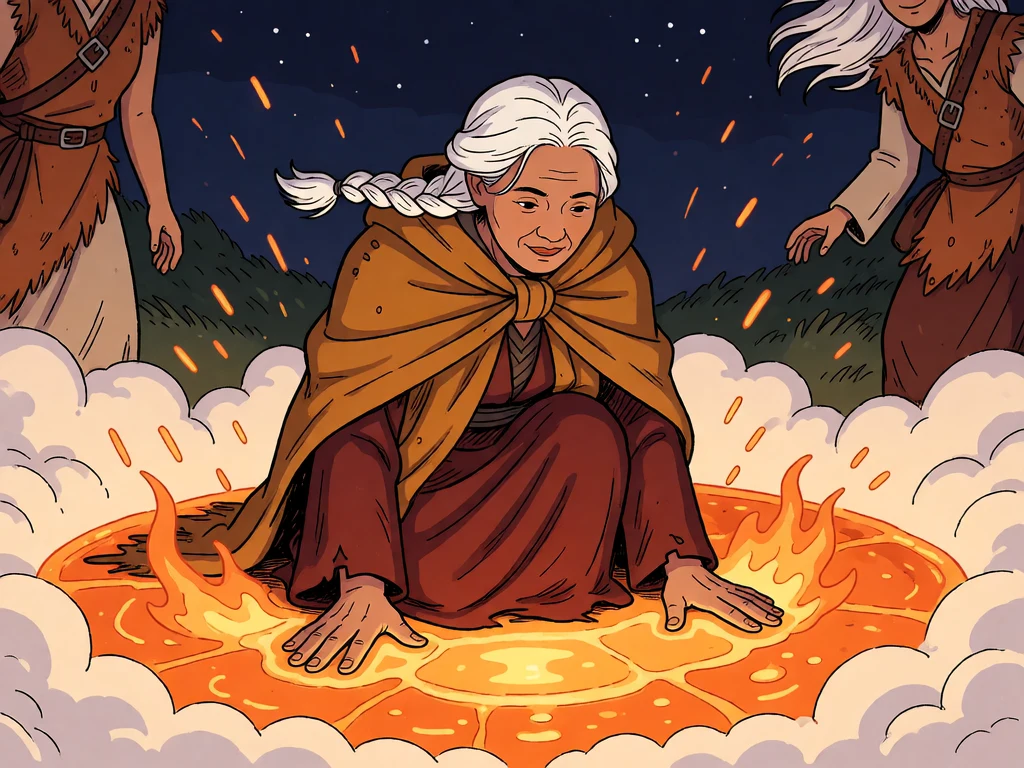
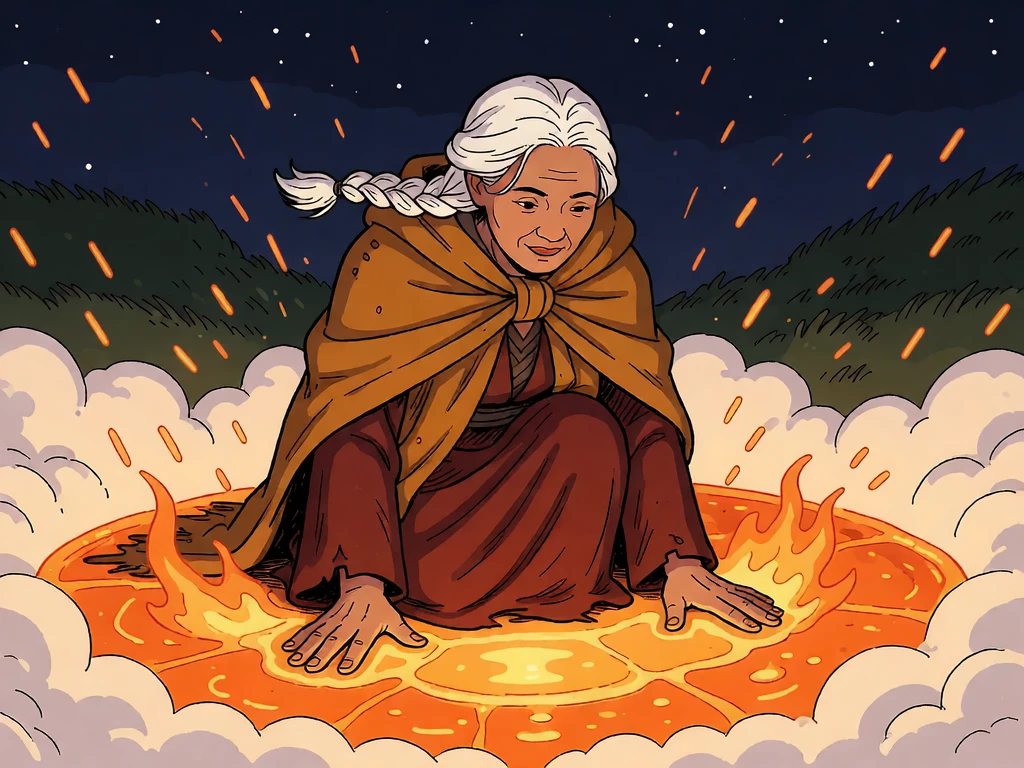
Run 7's crowd: Maudie, Orrin and Mabry in their own models, tinted villager stand-ins for Jarek, Hania, Manu, Sina, Garrick and Marit; Hesta alone in the landing still
Claude-Session: https://claude.ai/code/session_01JTmPYBGE5RJi7qTbK5Qior

diff --git a/src/client/view3d.ts b/src/client/view3d.ts
@@ -20,7 +20,7 @@ import { DYING, crowdSpot, terraceHeight } from "../engine/dying.js";
 import { DRESS, dressVerge, quarryPit, sieveGrain, sieveMask, sievePaths, wellLoop } from "./sieve-dress.js";
 import { SIEVE } from "../engine/sieve.js";
 import { RESCUE_LOOK, RescueFx, type VillagerRig } from "./rescue-dress.js";
-import { VILLAGERS, VILLAGER_BASES, tintVillager, type Villager } from "./villagers.js";
+import { VILLAGERS, VILLAGER_BASES, tintVillager, type Villager, type VillagerBase } from "./villagers.js";
 import { RematchFx } from "./rematch-dress.js";
 import { CoveFx } from "./cove-dress.js";
 import { KiteFx } from "./kite-dress.js";
@@ -1332,6 +1332,31 @@ class CastAnim {
     this.last = nowSec;
     this.mixer.update(dt);
   }
+}
+
+/** One of the village in run 9's villager base, at its height, lit and tinted as there, with its idle and walk. */
+function standBody(s: { base: string; skin: string; outfit: string; tall?: number }): THREE.Object3D | null {
+  loadVillagers();
+  const model = models[s.base], anims = clips[s.base];
+  if (!model || !anims?.length) return null;
+  const body = cloneSkinned(model);
+  body.scale.multiplyScalar(VILLAGERS.man * (VILLAGERS.heights[s.base as VillagerBase] ?? 1) * (s.tall ?? 1));
+  body.traverse((o) => {
+    const m = o as THREE.Mesh;
+    if (!m.isMesh) return;
+    if ((m as THREE.SkinnedMesh).isSkinnedMesh) m.frustumCulled = false;
+    const c = (m.material as THREE.MeshStandardMaterial).clone();
+    if (c.map) {
+      c.emissiveMap = c.map;
+      c.emissive = new THREE.Color("#ffffff");
+      c.emissiveIntensity = VILLAGERS.flat;
+    }
+    m.material = c;
+  });
+  // Last: a later clone would drop the colours.
+  tintVillager(body, s.skin, s.outfit);
+  body.userData.anim = new CastAnim(body, anims);
+  return body;
 }
 
 function castBody(cast: string): THREE.Object3D | null {
@@ -3238,12 +3263,16 @@ export class World {
     const m = DYING.crowd[i]!;
     const cast = m.cast && models[m.cast] ? castBody(m.cast) : null;
     if (cast) return { body: cast, real: true };
+    // A stand-in: run 9's villager base, tinted to them.
+    const stand = m.stand ? standBody(m.stand) : null;
+    if (stand) return { body: stand, real: true };
     // No model of their own yet: the plain lamplighter figure, a little different in height from the next.
     const plain = models[i % 2 ? "dawn" : "dusk"];
     if (plain) {
       const body = plain.clone();
       body.scale.multiplyScalar(1.8 * (0.88 + (i % 3) * 0.06));
-      return { body, real: !m.cast };
+      // Final for those with no model coming; the cast and the stand-ins replace it when theirs is in.
+      return { body, real: !m.cast && !m.stand };
     }
     const body = new THREE.Group();
     const robe = new THREE.Mesh(new THREE.ConeGeometry(0.3, 1.2, 10), new THREE.MeshStandardMaterial({ color: "#4a4660", roughness: 0.8 }));

diff --git a/src/engine/dying.ts b/src/engine/dying.ts
@@ -199,19 +199,21 @@ export const DYING = {
    */
   crowd: [
     { who: "Lumi", a: 0.555, c: "#ffd36a", s: 1.5, cast: "lumi" },
-    { who: "Maudie", a: 0.525, c: "#f4a6c8", s: 0.9 },
+    { who: "Maudie", a: 0.525, c: "#f4a6c8", s: 0.9, cast: "maudie" },
     { who: "Wick", a: 0.47, c: "#9fd8ff", s: 0.9, cast: "wick" },
     { who: "Moth", a: 0.425, c: "#c8b0ff", s: 0.9, cast: "moth" },
-    { who: "Jarek", a: 0.37, c: "#ffc890", s: 0.8 },
+    { who: "Jarek", a: 0.37, c: "#ffc890", s: 0.8, stand: { base: "villager-man", skin: "#e2b494", outfit: "#5c6e80" } },
     { who: "Nell", a: 0.32, c: "#a8e6a0", s: 0.7, cast: "nell" },
-    { who: "Orrin", a: 0.265, c: "#8fd0c8", s: 0.8 },
-    { who: "Mabry", a: 0.21, c: "#ffe9b0", s: 0.8 },
-    { who: "Manu", a: 0.15, c: "#b8e0ff", s: 0.8, carries: "sefa" },
-    { who: "Sina", a: 0.115, c: "#ffd0a0", s: 0.75 },
-    { who: "Hania", a: 0.05, c: "#f0d0ff", s: 0.75 },
-    { who: "Garrick", a: 0.99, c: "#d8c8a0", s: 0.8 },
-    { who: "Marit", a: 0.94, c: "#c0e8c0", s: 0.8 },
-  ] as readonly { who: string; a: number; c: string; s: number; cast?: string; carries?: string }[],
+    { who: "Orrin", a: 0.265, c: "#8fd0c8", s: 0.8, cast: "orrin" },
+    { who: "Mabry", a: 0.21, c: "#ffe9b0", s: 0.8, cast: "mabry" },
+    { who: "Manu", a: 0.15, c: "#b8e0ff", s: 0.8, carries: "sefa", stand: { base: "villager-man", skin: "#8d5a3c", outfit: "#4e807c", tall: 1.08 } },
+    { who: "Sina", a: 0.115, c: "#ffd0a0", s: 0.75, stand: { base: "villager-woman", skin: "#8d5a3c", outfit: "#4a4e78" } },
+    { who: "Hania", a: 0.05, c: "#f0d0ff", s: 0.75, stand: { base: "villager-woman", skin: "#e2b494", outfit: "#d6ccb0" } },
+    { who: "Garrick", a: 0.99, c: "#d8c8a0", s: 0.8, stand: { base: "villager-elder-man", skin: "#5c3a28", outfit: "#464a5c" } },
+    { who: "Marit", a: 0.94, c: "#c0e8c0", s: 0.8, stand: { base: "villager-woman", skin: "#a8714e", outfit: "#c4b696" } },
+    // `stand`: no model of their own yet (the cast thread is asked, 25 Nov), so run 9's villager base
+    // in their sheet's skin and main garment colour.
+  ] as readonly { who: string; a: number; c: string; s: number; cast?: string; carries?: string; stand?: { base: string; skin: string; outfit: string; tall?: number } }[],
   /**
    * Where they stand (Ladi, 24 Nov: "I definitely do not want the crowd on the field... they are by
    * Hesta's house looking down at the Kindling field"). Never on the field: all through both runs

diff --git a/CREDITS.md b/CREDITS.md
@@ -15,11 +15,12 @@ subscription-only billing so no Spark was spent. Sources are in the project file
 | faces/&lt;who&gt;-&lt;mood&gt;.webp (story portraits: Hesta 3 moods, Lumi 6, Rook 4, Nell 6, Sefa 7, Kes 5; Kes's are drafts from the cast art thread, `sogni/lanternfall/production/kes/game/`, 2026-11-24) | Mood faces (Lumi's calling, grudging and delighted redrawn closed-mouth on 2026-11-23) from the cast art thread (project files `sogni/lanternfall/production/<who>/face-*.png`, 2026-11-23), resized to 160 px WebP |
 | stills/r8-{1,2,7,10,11a,11b}.webp (run 8's reaction stills: Tilda steady, Tilda and Rook at the far well, Rook asking for Granny (redrawn the same day, more concerned, at Ladi's word), the count book, Tilda asking, Rook with no answer) | Drafts drawn by the gameplay thread with krea2_identity_edit_v1_2 on Sogni, 2026-11-24, on Ladi's plan, 0 Spark (project files `gameplay/stills/run8/`), 1024 by 768 as delivered. | The stills panel over the Sieve (`src/engine/stills.ts`) |
 | stills/r8-5.webp, stills/r8-6.webp (run 8's reaction stills at the tug: Tilda lost with Rook uneasy behind her; Tilda watching, Rook looking down) | Drawn by the cutscene thread on Sogni, 2026-11-24, on Ladi's plan; Ladi approved them at 10:44 AM ("Faces look good"). Every step with krea2_identity_edit_v1_2 on the subscription, 0 Spark, as that thread confirmed from its render logs (Tilda alone, Rook added behind her, the face changes on head crops), from the project's own persona sheets lf-tilda and lf-rook-high-grounds; the face transplants, Tilda's chalk smudge and Rook's enlarging are its own script and hand work, no model (sources `sogni/lanternfall/production/story/run8-stills/s5-closer.png` and `s6-closer.png`; delivered in project files `gameplay/stills/run8/`), 1024 by 768 as delivered | The stills panel over the Sieve: 5 as the tug takes hold, 6 cross-fading over it when the tug ends |
-| stills/r6-land-{1,2,3}.webp (run 6's landing pictures: the crowd looking up with Lumi in front, the comet over the island, Hesta landing in the glass) | Drafts drawn by the gameplay thread on Sogni, 2026-11-24, on Ladi's plan, 0 Spark, all with krea2_identity_edit_v1_2; picture 2 redrawn the same day from the game's own island (project files `gameplay/stills/run6/`), 1024 by 768 as delivered | The held pictures of the landing between runs 6 and 7; picture 2 shows only with `?stillsonly`, since the comet now falls on the map |
+| stills/r6-land-{1,2,3}.webp (run 6's landing pictures: the crowd looking up with Lumi in front, the comet over the island, Hesta landing in the glass) | Drafts drawn by the gameplay thread on Sogni, 2026-11-24, on Ladi's plan, 0 Spark, all with krea2_identity_edit_v1_2; picture 2 redrawn the same day from the game's own island; picture 3 redrawn on 2026-11-25 by the cutscene thread with Hesta alone (`r6-land-3-solo`, the two people at its edges painted out, 0 Spark, on Ladi's note) (project files `gameplay/stills/run6/`), 1024 by 768 as delivered | The held pictures of the landing between runs 6 and 7; picture 2 shows only with `?stillsonly`, since the comet now falls on the map |
 | stills/alarm/**/*.webp (the alarm before run 6 as moving layers: the kitchen with its lamp and three cups apart; the falls; the Kindling ground close with its fire strong, low, in embers and out, drawn from the game's own story/kindling-ring.webp; and in shot4/ the island going down: sky, five layers of cloud, the island cut out with its heart bright and dim, a strip of waterfall, four rocks), stills/r6-alarm-5.webp (Lumi at the door, worried) and stills/r7-end-1.webp (the island clear of the cloud) | Drafts drawn by the gameplay thread on Sogni, 2026-11-24, on Ladi's plan, 0 Spark, with krea2_identity_edit_v1_2, the island drawn from the game's own (project files `gameplay/stills/run6/` and `gameplay/stills/run6/alarm-layers/`); the layers turned from PNG to WebP here, same sizes | The alarm's five shots before run 6 (`?noalarm` leaves them out) and the picture at the end of run 7. The alarm's sparks are drawn in the page, and its sounds (bell, timbers, falls, far-off voices, the low roll, rock breaking) are made in the page, no files |
 | stills/alarm/shot4/{island-dim,island-bright,waterfall-strip,debris-1..4}.webp (the alarm's last shot, redrawn so the houses, the landing with its skiff and the lake sit where they are on the map, with the falls down the near face) | Redrawn by the gameplay thread on Sogni, 2026-11-24, straight over a capture of the game's own home island made here (project files `build/home-island-horseshoe/whole/2-day-side.png`); Ladi approved the shot at 11:30 AM ("Shot 4 Descent looks good", draft 5). Model and cost as that thread's other alarm layers (the row above); turned from PNG to WebP here, same sizes; on 2026-11-25 the cutscene thread painted the five small figures out of island-dim and island-bright at Ladi's request (the shot is too wide for people), same size and alpha (`production/story/run6-stills/layers4/nopeople/`) | The island going down, the last shot of the alarm before run 6 |
 | models/rook.glb, lumi.glb, hesta.glb, wick.glb, moth.glb, nell.glb, sefa.glb (story characters) | The cast art thread's rigged and animated models (`production/<who>/<who>-rigged.glb`, 2026-11-23: idle, walk, run, pull, push clips), shipped as delivered (quantised, no meshopt): 570 to 815 KB each |
-| models/maudie.glb, mabry.glb, orrin.glb (home island residents) | The cast art thread's rigged and animated models (`production/<who>/<who>-rigged.glb`, 2026-11-25: idle, walk, run, pull, push; Mabry's cane skinned to her right hand), shipped as delivered, 646 to 737 KB each. Ladi approved the three field drawings ("Looks good to me", 2026-11-25, 4:21 AM); the rigged models are not seen by him yet. Same Sogni pipeline and caveats as the row above | The walks: Maudie at Rook's door, Orrin at his stall, Mabry at the shrine |
+| models/maudie.glb, mabry.glb, orrin.glb (home island residents) | The cast art thread's rigged and animated models (`production/<who>/<who>-rigged.glb`, 2026-11-25: idle, walk, run, pull, push; Mabry's cane skinned to her right hand), shipped as delivered, 646 to 737 KB each. Ladi approved the three field drawings ("Looks good to me", 2026-11-25, 4:21 AM); the rigged models are not seen by him yet. Same Sogni pipeline and caveats as the row above | The walks: Maudie at Rook's door, Orrin at his stall, Mabry at the shrine; and in run 7's crowd on Hesta's terrace |
+| models/villager-{man,woman,girl,boy,elder-woman,elder-man}.glb (six tintable villager bases) | The cast art thread's rigged and animated models, draft 1 (`production/villagers/`, 2026-11-24: idle, walk, sit, sithuddle, huddle, lookup; skin and garment tinted in the game from a mask), shipped as delivered, 653 to 738 KB each. Ladi saw the first board of drawings, not the models. Same Sogni pipeline and caveats as the rows above | Run 9's villagers; and in run 7's crowd, stand-ins for Jarek, Hania, Manu, Sina, Garrick and Marit in their sheets' colours until they have models of their own |
 | sprites/snack-bubble.png (Hesta's honey drop bubble, 7 frames) | Drawn in code by the cast art thread's script (`production/hesta/snack-bubble/gen.py`, 2026-11-23); no model |
 | models/beehive.glb, garden-plot.glb, mat-rack.glb, baskets.glb, wheelbarrow.glb, pane-crate.glb, cargo-crates.glb (the other houses' yards) | Concepts from z_image_turbo_bf16, then pixal3d_int8_i23d (image to 3D), 2026-11-24, Sogni Unlimited plan, 0 Spark. Levelled, slimmed to 5k triangles and paint re-baked by the maps and places thread (project files sogni/lanternfall/production/places/yards/). |
 | models/{kes-house,wind-vane,bent-tree,referee-stand}.glb, textures/floor-kite-fell.webp, textures/floor-kite-fell-race.webp | Concepts from z_image_turbo_bf16 (tree and stand edited with krea2_identity_edit_v1_2), then pixal3d_int8_i23d (image to 3D), 2026-11-24, Sogni Unlimited plan, 0 Spark. Levelled, slimmed and paint re-baked by the maps and places thread (project files sogni/lanternfall/production/places/kes-island/props/). | Kite Fell, Kes's island (run 5): her house, the wind vanes, the bent trees, Lumi's referee stand, and the grass |
